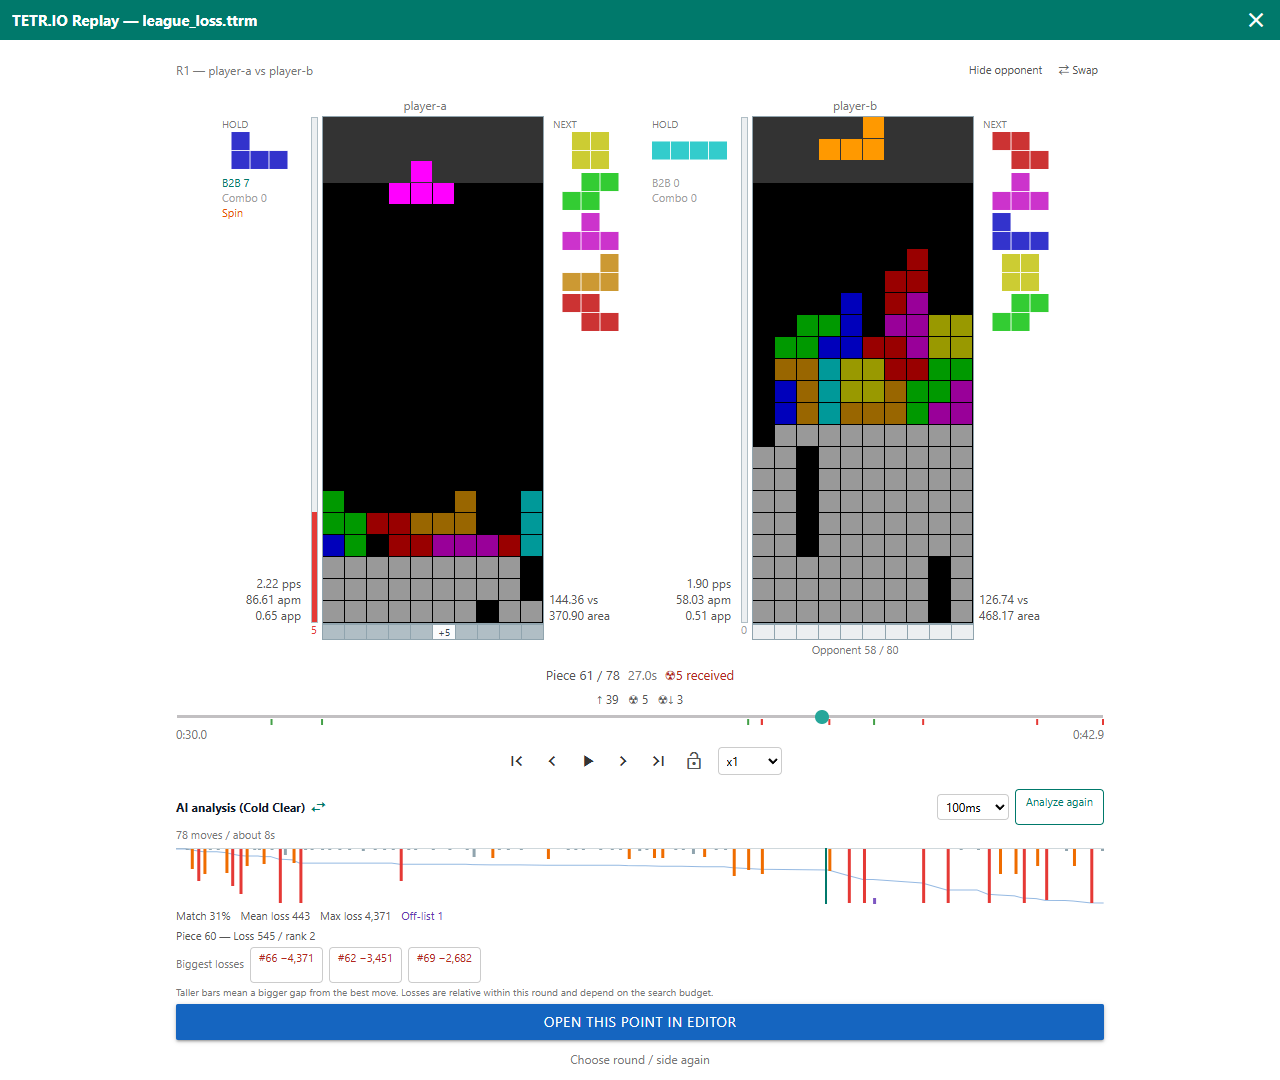
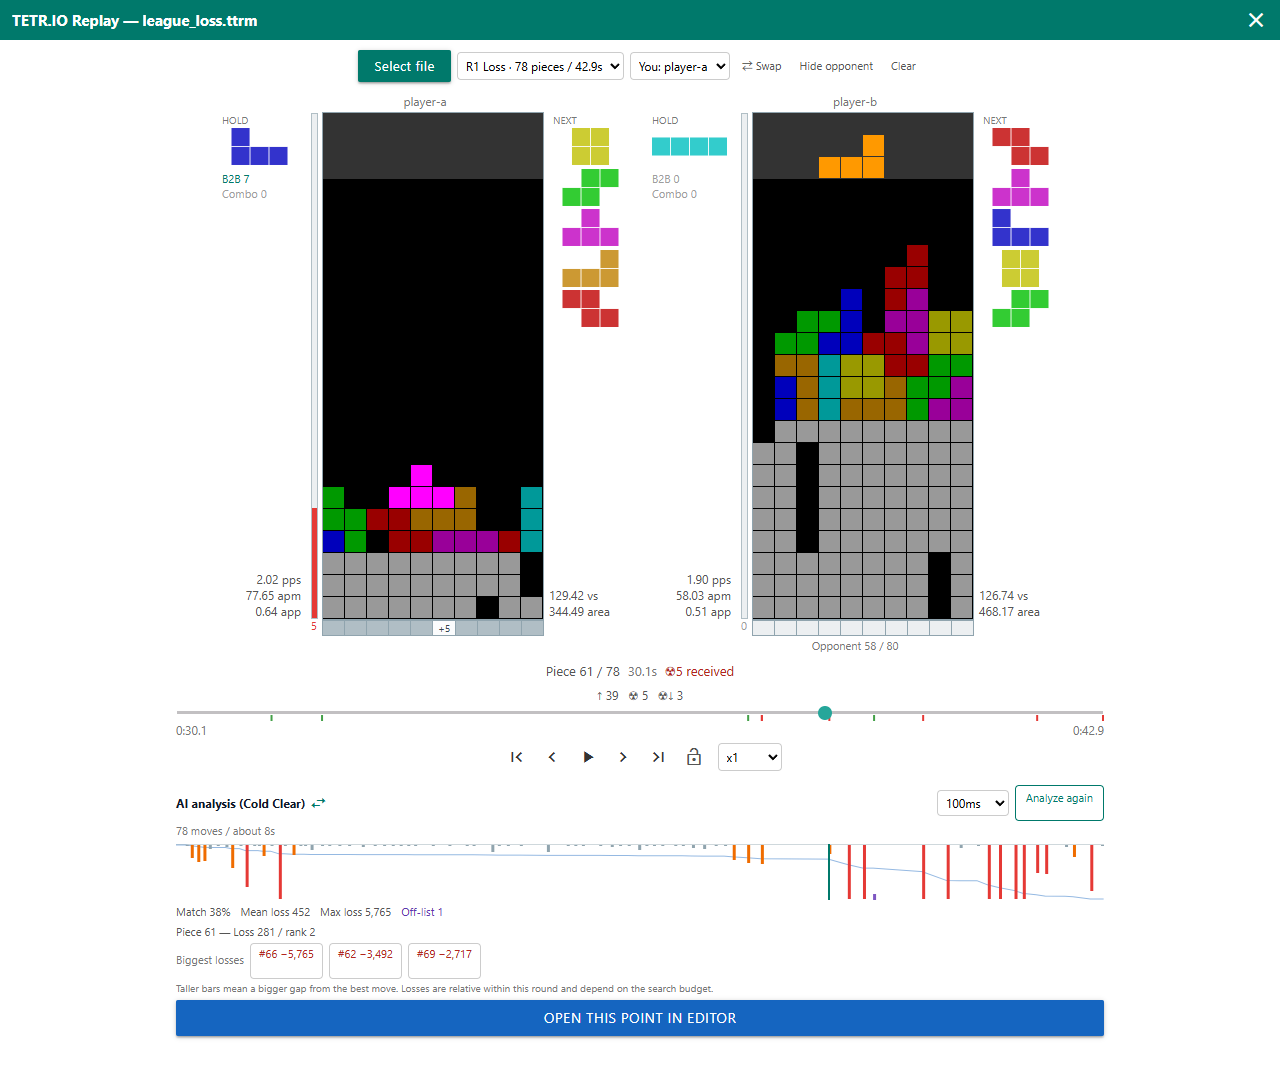
Update the manual for direct replay playback
Describe opening a .ttrm straight into round 1, dropping a .ttrm on the
app from any screen, and switching rounds and sides from the toolbar in
both the Japanese and English manuals, and recapture the replay
screenshots from the current app. Also align the Japanese replay labels
with the current locale.

Model: Claude Opus 5.5

diff --git a/resources/manual/index.html b/resources/manual/index.html
@@ -138,7 +138,7 @@
       <li><strong>全ページに適用：</strong>全ページ反転、全ページコメント置換、全ページコメントリセット。コメントリセットはツリーデータを維持し、Undoできます。</li>
       <li><strong>ページ削除：</strong><strong>&lt;-Clear</strong>で現在ページより前、<strong>Clear-&gt;</strong>で現在ページより後のページを削除します。</li>
       <li><strong>編集モード：</strong><strong>スライド</strong>は盤面を上下左右へ動かすトレイ（上へ + グレー、上、左、右、下、完了）を、<strong>コメント</strong>は空にする・引き継ぐのトレイを開きます。</li>
-      <li><strong>TETR.IO リプレイ：</strong><strong>TETR.IO リプレイを開く</strong>でリプレイ画面へ移動します。</li>
+      <li><strong>TETR.IO リプレイ：</strong><strong>TETR.IO Replayを開く</strong>でリプレイ画面へ移動します。</li>
       <li><strong>FLAGS：</strong>キーページ／参照ページ、固定、せり上がり、反転フラグを切り替えます。固定がオンのページでは、次ページへ進むときにライン消去を反映します。</li>
       <li><strong>パネル：</strong>見出しをドラッグして移動できます。項目を選ぶと閉じます。ユーザー設定の<strong>UTILSメニューを開いたままにする</strong>を有効にすると、盤面を操作しながら続けて項目を選べます。</li>
     </ul>
@@ -320,18 +320,19 @@
 
     <h3 id="replay">TETR.IO リプレイを再生する</h3>
     <ol class="steps">
-      <li>UTILSの<strong>TETR.IO リプレイを開く</strong>、またはINPUTの<strong>リプレイ</strong>ボタンを選ぶ。</li>
-      <li><strong>ファイルを選択</strong>で.ttrmファイルを選ぶ（ドロップでも読み込めます）。</li>
-      <li><strong>自陣プレイヤー</strong>と<strong>ラウンド</strong>を選び、<strong>このラウンドを再生</strong>を押す。</li>
+      <li>UTILSの<strong>TETR.IO Replayを開く</strong>、またはINPUTの<strong>Replay</strong>ボタンを選ぶ。</li>
+      <li><strong>ファイルを選択</strong>で.ttrmファイルを選ぶ。.ttrmファイルは、どの画面でもアプリ上にドロップすればリプレイ画面で開きます。</li>
+      <li>読み込みが終わると、1ラウンド目の開始地点が表示されます。▶ で再生します。</li>
     </ol>
-    <figure class="shot"><img src="./images/replay-select.png" alt="スマートフォン幅のTETR.IO リプレイ画面。自陣プレイヤーにplayer-bとplayer-a、ラウンドにR1 敗北 78手、このラウンドを再生ボタンがあります。"><figcaption>リプレイの選択。勝敗は選んだ自陣プレイヤーから見た結果で表示されます。</figcaption></figure>
-    <figure class="shot"><img src="./images/replay.png" alt="PCのリプレイ再生画面。自陣と相手の盤面、HOLD・NEXT、左端のガベージゲージ、手番とタイムライン、再生ボタン、AI解析のグラフと集計、この地点を Editor で開くボタンがあります。"><figcaption>リプレイの再生。盤面の左にガベージゲージ、下にせり上がり予告行があり、AI解析のグラフで損失の大きい手を確認できます。</figcaption></figure>
+    <figure class="shot"><img src="./images/replay-select.png" alt="スマートフォン幅のTETR.IO Replay画面。上部にファイルを選択ボタン、R1 敗北 · 78手 / 42.9sのラウンドメニュー、自陣: player-aのメニュー、入替、相手を表示、クリアが並び、その下に開始地点の盤面があります。"><figcaption>読み込み直後の画面。ラウンドと自陣は上部のメニューで切り替えます。</figcaption></figure>
+    <figure class="shot"><img src="./images/replay.png" alt="PCのリプレイ再生画面。上部のファイル選択・ラウンド・自陣のメニュー、自陣と相手の盤面、HOLD・NEXT、左端のガベージゲージ、手番とタイムライン、再生ボタン、AI解析のグラフと集計、この地点をEdit画面で開くボタンがあります。"><figcaption>リプレイの再生。盤面の左にガベージゲージ、下にせり上がり予告行があり、AI解析のグラフで損失の大きい手を確認できます。</figcaption></figure>
     <ul>
       <li><strong>再生：</strong>前後ボタンで自陣の手番ごとに、固定する直前の局面で止まります。再生／一時停止、先頭・末尾、速度（x0.25〜x4）、タイムラインで任意の時点へ移動できます。PCでは<kbd>←</kbd>/<kbd>→</kbd>で手番送り、<kbd>Space</kbd>で再生／一時停止します。錠前ボタンをオンにすると先頭・末尾への移動を無効にします。</li>
+      <li><strong>ラウンドと自陣：</strong>上部のメニューでラウンドと自陣プレイヤーを切り替えます。ラウンドの勝敗は選んだ自陣から見た結果で、切り替えると開始地点で一時停止します。<strong>クリア</strong>で読み込んだリプレイを閉じます。</li>
       <li><strong>表示：</strong>両者のHOLD・NEXT、B2B・Combo、直前の消去、pps・apm・app・vs・areaを表示します。<strong>相手を隠す</strong>で相手の盤面を隠し、<strong>⇄ 入替</strong>で自陣と相手を入れ替えます。</li>
       <li><strong>ガベージ：</strong>盤面左のゲージに受けた攻撃、盤面下にせり上がる行と穴の位置を表示します。タイムラインの印は赤が被弾、緑が相殺です。負けたラウンドでは死因と<strong>その地点へ</strong>のリンクを表示します。</li>
       <li><strong>AI解析：</strong>思考時間を選んで<strong>この試合を解析する</strong>を押すと、自陣の各手をAIが評価します。グラフは棒が長いほど最善手との差が大きく、クリックするとその手へ移動します。一致率、平均損失、最大損失と<strong>大きく損した手</strong>も表示します。見出しのエンジン名でCold ClearとSold Slearを切り替えられます。</li>
-      <li><strong>Editへ取り出す：</strong><strong>この地点を Editor で開く</strong>を押すと、現在の局面を現在ページの直後に新しいページとして挿入し、INPUTで開きます。HOLD・CURRENT・NEXTはコメントのキューへ、B2B・Combo・受けている攻撃は対戦状態として引き継がれ、INPUTで続きを操作できます。</li>
+      <li><strong>Editへ取り出す：</strong><strong>この地点をEdit画面で開く</strong>を押すと、現在の局面を現在ページの直後に新しいページとして挿入し、INPUTで開きます。HOLD・CURRENT・NEXTはコメントのキューへ、B2B・Combo・受けている攻撃は対戦状態として引き継がれ、INPUTで続きを操作できます。</li>
       <li><strong>対応範囲：</strong>2人対戦の.ttrm（リーグ、プライベートルーム）に対応します。1ファイル8MBまでで、1ラウンドずつ再生します。再現できないラウンドは「再現不可」と表示され、選択できません。</li>
     </ul>
     <p class="note">AI解析の結果と引き継いだ対戦状態は保存されず、共有URLにも含まれません。</p>

diff --git a/resources/manual/en/index.html b/resources/manual/en/index.html
@@ -321,13 +321,14 @@
     <h3 id="replay">Play back a TETR.IO replay</h3>
     <ol class="steps">
       <li>Select <strong>Open TETR.IO replay</strong> in UTILS, or the <strong>Replay</strong> button in INPUT.</li>
-      <li>Choose a .ttrm file with <strong>Select file</strong>, or drop the file on the screen.</li>
-      <li>Choose <strong>Your side</strong> and a round under <strong>Rounds</strong>, then press <strong>Play this round</strong>.</li>
+      <li>Choose a .ttrm file with <strong>Select file</strong>. You can also drop a .ttrm file on the app from any screen to open it in the Replay screen.</li>
+      <li>When loading finishes, the start of the first round is shown. Press ▶ to play.</li>
     </ol>
-    <figure class="shot"><img src="../images/en/replay-select.png" alt="The TETR.IO Replay screen at phone width, with player-b and player-a under Your side, R1 Loss with 78 pieces under Rounds, and the Play this round button."><figcaption>Choosing a round. Win or loss is shown from the side you choose.</figcaption></figure>
-    <figure class="shot"><img src="../images/en/replay.png" alt="Replay playback on PC with both boards, HOLD and NEXT, garbage gauges at the left of each board, the piece counter and timeline, playback buttons, the AI analysis graph and summary, and the Open this point in Editor button."><figcaption>Replay playback. Garbage gauges sit to the left of each board and the upcoming rise row below it. The AI analysis graph highlights costly moves.</figcaption></figure>
+    <figure class="shot"><img src="../images/en/replay-select.png" alt="The TETR.IO Replay screen at phone width. The top row has the Select file button, the R1 Loss · 78 pieces / 42.9s round menu, the You: player-a menu, Swap, Show opponent, and Clear, with the board at the round start below."><figcaption>Right after loading. Switch the round and your side with the menus at the top.</figcaption></figure>
+    <figure class="shot"><img src="../images/en/replay.png" alt="Replay playback on PC with the file, round, and side menus at the top, both boards, HOLD and NEXT, garbage gauges at the left of each board, the piece counter and timeline, playback buttons, the AI analysis graph and summary, and the Open this point in Editor button."><figcaption>Replay playback. Garbage gauges sit to the left of each board and the upcoming rise row below it. The AI analysis graph highlights costly moves.</figcaption></figure>
     <ul>
       <li><strong>Playback:</strong> The previous and next buttons step through your pieces and stop just before each one locks. Play/pause, jump to the start or end, change the speed (x0.25–x4), or move to any time on the timeline. On PC, <kbd>←</kbd>/<kbd>→</kbd> step through pieces and <kbd>Space</kbd> plays or pauses. Turn on the lock button to disable jumping to the start or end.</li>
+      <li><strong>Round and side:</strong> Switch the round and your side with the menus at the top. Win or loss is shown from the side you choose, and switching rounds pauses at the start of that round. <strong>Clear</strong> closes the loaded replay.</li>
       <li><strong>Display:</strong> Both players' HOLD and NEXT, B2B and Combo, the latest clear, and pps, apm, app, vs, and area are shown. <strong>Hide opponent</strong> hides the opponent's board, and <strong>⇄ Swap</strong> swaps your side and the opponent.</li>
       <li><strong>Garbage:</strong> The gauge left of each board shows incoming attacks, and the row below the board shows the rows that will rise and their holes. Timeline marks are red for tanked and green for cancelled garbage. In a lost round, the cause of loss and a <strong>Go to that moment</strong> link appear.</li>
       <li><strong>AI analysis:</strong> Choose a think time and press <strong>Analyze this round</strong> to have the AI evaluate each of your moves. Longer bars in the graph mean a bigger gap from the best move; click the graph to jump to that move. Match rate, mean loss, max loss, and <strong>Biggest losses</strong> are also shown. Switch between Cold Clear and Sold Slear with the engine name in the heading.</li>
